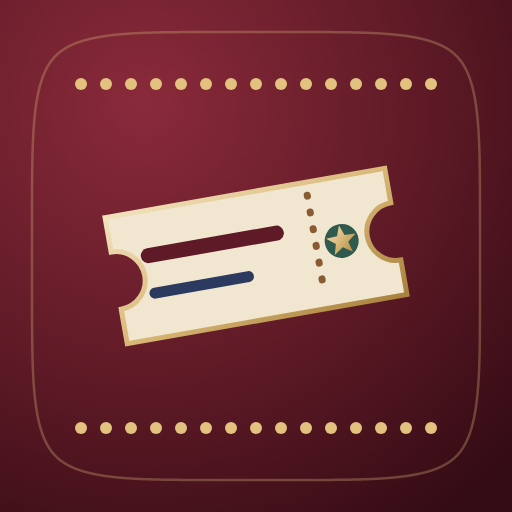
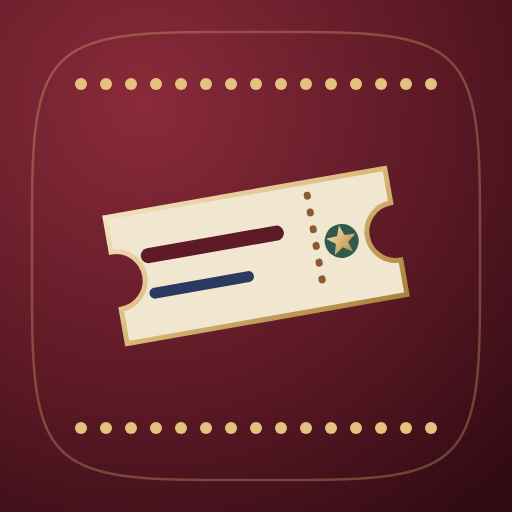
Iconos: el marco dorado sigue exactamente la forma que aplica iOS (superelipse n≈4,2)
Claude-Session: https://claude.ai/code/session_016k35bzsaVrxmGnMwsVbJwM

diff --git a/index.html b/index.html
@@ -11,7 +11,7 @@
 <meta name="mobile-web-app-capable" content="yes">
 <meta name="apple-mobile-web-app-title" content="CiccApps">
 <link rel="manifest" href="manifest.webmanifest">
-<link rel="apple-touch-icon" href="iconos/ciccapps-180.png?v=3">
+<link rel="apple-touch-icon" href="iconos/ciccapps-180.png?v=6">
 <link rel="icon" type="image/png" href="iconos/favicon-32.png">
 <link rel="stylesheet" href="compartido/ciccapps.css?v=19">
 <style>
@@ -100,10 +100,10 @@ header p { margin: 0; text-wrap: balance; font-family: var(--cc-serif); font-sty
   </header>
 
   <main class="apps">
-    <a class="app a-bit" href="bitacora/"><span class="ico"><img src="iconos/bitacora-192.png?v=5" alt=""></span><h2>Bitácora</h2><p>Tu plan de lectura, los libros que te faltan y tu ritmo.</p><small>¿Qué leo ahora?</small></a>
-    <a class="app a-pla" href="platea/"><span class="ico"><img src="iconos/platea-192.png?v=5" alt=""></span><h2>Platea</h2><p>Tu diario de cine y series, con watchlist y cartelera semanal.</p><small>¿Qué veo ahora?</small></a>
-    <a class="app a-vin" href="vinilo/"><span class="ico"><img src="iconos/vinilo-192.png?v=5" alt=""></span><h2>Vinilo</h2><p>Música para cada hora del día, con tus listas de Spotify.</p><small>¿Qué escucho ahora?</small></a>
-    <a class="app a-ic" href="interes-compuesto/"><span class="ico"><img src="iconos/interes-compuesto-192.png?v=5" alt=""></span><h2>Interés compuesto</h2><p>La simulación de ahorro para enseñar en tus reuniones.</p><small>¿Y si empiezas hoy?</small></a>
+    <a class="app a-bit" href="bitacora/"><span class="ico"><img src="iconos/bitacora-192.png?v=6" alt=""></span><h2>Bitácora</h2><p>Tu plan de lectura, los libros que te faltan y tu ritmo.</p><small>¿Qué leo ahora?</small></a>
+    <a class="app a-pla" href="platea/"><span class="ico"><img src="iconos/platea-192.png?v=6" alt=""></span><h2>Platea</h2><p>Tu diario de cine y series, con watchlist y cartelera semanal.</p><small>¿Qué veo ahora?</small></a>
+    <a class="app a-vin" href="vinilo/"><span class="ico"><img src="iconos/vinilo-192.png?v=6" alt=""></span><h2>Vinilo</h2><p>Música para cada hora del día, con tus listas de Spotify.</p><small>¿Qué escucho ahora?</small></a>
+    <a class="app a-ic" href="interes-compuesto/"><span class="ico"><img src="iconos/interes-compuesto-192.png?v=6" alt=""></span><h2>Interés compuesto</h2><p>La simulación de ahorro para enseñar en tus reuniones.</p><small>¿Y si empiezas hoy?</small></a>
   </main>
 
   <section class="instalar" id="instalar" aria-label="Cómo instalar">

diff --git a/platea/index.html b/platea/index.html
@@ -12,8 +12,8 @@
 <meta name="apple-mobile-web-app-title" content="Platea">
 <meta name="apple-mobile-web-app-status-bar-style" content="default">
 <link rel="manifest" href="manifest.webmanifest">
-<link rel="apple-touch-icon" href="../iconos/platea-180.png?v=5">
-<link rel="icon" type="image/png" href="../iconos/platea-192.png?v=5">
+<link rel="apple-touch-icon" href="../iconos/platea-180.png?v=6">
+<link rel="icon" type="image/png" href="../iconos/platea-192.png?v=6">
 <link rel="stylesheet" href="../compartido/ciccapps.css?v=19">
 <style>
 /* Layout: marquesina de cine arriba (estadísticas en letras de cartel), pestañas Diario / Por ver / Series, entradas como "tickets" troquelados; formulario en hoja inferior */
@@ -679,7 +679,7 @@ async function cargar(){
 }
 const TEMA_ACCESO={claro:{fondo:"#F3EFE4","fondo-alto":"#FFFFFF",hundido:"#EDE5D6",linea:"#E0D7C6","linea-fuerte":"#9C8F92",tinta:"#24161A","tinta-suave":"#6C6266",oro:"#6E1E2B",primario:"#6E1E2B","sobre-primario":"#FFF6EE","display-app":'"Limelight",Georgia,serif',"display-tracking":".02em"},
   oscuro:{fondo:"#150D10","fondo-alto":"#1F1518",hundido:"#2A1C20",linea:"#3A2A2F","linea-fuerte":"#6B5A5F",tinta:"#F1E9E4","tinta-suave":"#A7999E",oro:"#D9B878",primario:"#B8475A","sobre-primario":"#FFF6EE","display-app":'"Limelight",Georgia,serif',"display-tracking":".02em"}};
-CiccCuenta.iniciar({app:"Platea",icono:"../iconos/platea-192.png?v=5",lema:"¿Qué veo ahora?",tema:TEMA_ACCESO}).then(async r=>{
+CiccCuenta.iniciar({app:"Platea",icono:"../iconos/platea-192.png?v=6",lema:"¿Qué veo ahora?",tema:TEMA_ACCESO}).then(async r=>{
   sb=r.sb;USUARIO=r.usuario||null;CiccCuenta.firma("Platea",document.getElementById("pie"));await cargar();marcarMesNuevo();
   document.addEventListener("visibilitychange",()=>{if(document.visibilityState==="visible"&&!editId)cargar()});
 });

diff --git a/vinilo/index.html b/vinilo/index.html
@@ -6,8 +6,8 @@
 <meta name="apple-mobile-web-app-title" content="Vinilo">
 <meta name="apple-mobile-web-app-status-bar-style" content="black-translucent">
 <link rel="manifest" href="manifest.webmanifest">
-<link rel="apple-touch-icon" href="../iconos/vinilo-180.png?v=5">
-<link rel="icon" type="image/png" href="../iconos/vinilo-192.png?v=5">
+<link rel="apple-touch-icon" href="../iconos/vinilo-180.png?v=6">
+<link rel="icon" type="image/png" href="../iconos/vinilo-192.png?v=6">
 <link rel="stylesheet" href="../compartido/ciccapps.css?v=19">
 </head><body>
 
@@ -410,7 +410,7 @@ TAGS.forEach(([key, label]) => {
     claro:{fondo:"#F4EEE2","fondo-alto":"#FBF8F1",hundido:"#ECE4D3",linea:"#E1D8C6","linea-fuerte":"#A9A08C",tinta:"#172038","tinta-suave":"#5B6378",oro:"#8A6A2B",primario:"#172038","sobre-primario":"#F4EEE2","display-app":DISP,"color-scheme":"light"}};
   let sb=null,res=[],busy=false;const $=id=>document.getElementById(id);
   const esc=v=>String(v??"").replace(/[&<>"]/g,c=>({"&":"&amp;","<":"&lt;",">":"&gt;",'"':"&quot;"}[c]));
-  CiccCuenta.iniciar({app:"Vinilo",icono:"../iconos/vinilo-192.png?v=5",lema:"¿Qué escucho ahora?",tema:TEMA}).then(r=>{sb=r.sb;cargarFavs()});
+  CiccCuenta.iniciar({app:"Vinilo",icono:"../iconos/vinilo-192.png?v=6",lema:"¿Qué escucho ahora?",tema:TEMA}).then(r=>{sb=r.sb;cargarFavs()});
   function pinta(){
     $("iaGo").disabled=busy;$("iaGo").textContent=busy?"Pensando…":"Créame una playlist";
     $("iaList").innerHTML=res.map(c=>`<li><div><b>${esc(c.titulo)}</b><span>${esc(c.artista)}${c.anio?` · ${c.anio}`:""}${c.por_que?` — ${esc(c.por_que)}`:""}</span></div><a href="https://open.spotify.com/search/${encodeURIComponent(c.titulo+" "+c.artista)}" target="_blank" rel="noopener">Spotify ↗</a></li>`).join("");

diff --git a/bitacora/index.html b/bitacora/index.html
@@ -12,8 +12,8 @@
 <meta name="apple-mobile-web-app-title" content="Bitácora">
 <meta name="apple-mobile-web-app-status-bar-style" content="default">
 <link rel="manifest" href="manifest.webmanifest">
-<link rel="apple-touch-icon" href="../iconos/bitacora-180.png?v=5">
-<link rel="icon" type="image/png" href="../iconos/bitacora-192.png?v=5">
+<link rel="apple-touch-icon" href="../iconos/bitacora-180.png?v=6">
+<link rel="icon" type="image/png" href="../iconos/bitacora-192.png?v=6">
 <link rel="stylesheet" href="../compartido/ciccapps.css?v=19">
 <style>
 /* Layout: resumen + "ahora" arriba; tres vistas (Plan con estanterías por etapa, ¿Qué leo? por mood, Compras); ficha del libro como hoja inferior */
@@ -1011,7 +1011,7 @@ async function cargar(){
 }
 const TEMA_ACCESO={claro:{fondo:"#F3EFE4","fondo-alto":"#FBF8F0",hundido:"#EDE5D6",linea:"#E0D9C8","linea-fuerte":"#9A8B7C",tinta:"#4B2E19","tinta-suave":"#6B5E52",oro:"#9C7630",primario:"#4B2E19","sobre-primario":"#F3EFE4","display-app":'"IM Fell English",Georgia,serif'},
   oscuro:{fondo:"#17110C","fondo-alto":"#221912",hundido:"#2A2018",linea:"#3A2C20","linea-fuerte":"#6B5A48",tinta:"#EDE6D3","tinta-suave":"#ADA092",oro:"#D9B878",primario:"#D9B878","sobre-primario":"#17110C","display-app":'"IM Fell English",Georgia,serif'}};
-CiccCuenta.iniciar({tema:TEMA_ACCESO,app:"Bitácora",icono:"../iconos/bitacora-192.png?v=5",lema:"¿Qué leo ahora?"}).then(async r=>{
+CiccCuenta.iniciar({tema:TEMA_ACCESO,app:"Bitácora",icono:"../iconos/bitacora-192.png?v=6",lema:"¿Qué leo ahora?"}).then(async r=>{
   sb=r.sb;CiccCuenta.firma("Bitácora",document.getElementById("pie"));await cargar();
   document.addEventListener("visibilitychange",()=>{if(document.visibilityState==="visible"&&!sheetId)cargar()});
 });

diff --git a/interes-compuesto/index.html b/interes-compuesto/index.html
@@ -18,8 +18,8 @@
 <meta name="mobile-web-app-capable" content="yes">
 <meta name="apple-mobile-web-app-title" content="Interés">
 <link rel="manifest" href="manifest.webmanifest">
-<link rel="apple-touch-icon" href="../iconos/interes-compuesto-180.png?v=5">
-<link rel="icon" type="image/png" href="../iconos/interes-compuesto-192.png?v=5">
+<link rel="apple-touch-icon" href="../iconos/interes-compuesto-180.png?v=6">
+<link rel="icon" type="image/png" href="../iconos/interes-compuesto-192.png?v=6">
 </head><body>
 
 <style>

diff --git a/sw.js b/sw.js
@@ -1,5 +1,5 @@
 /* CiccApps — funciona sin conexión: guarda una copia de cada app y sus piezas al visitarlas. */
-const CACHE = 'ciccapps-v24';
+const CACHE = 'ciccapps-v25';
 self.addEventListener('install', e => self.skipWaiting());
 self.addEventListener('activate', e => e.waitUntil(
   caches.keys().then(ks => Promise.all(ks.filter(k => k !== CACHE).map(k => caches.delete(k)))).then(() => self.clients.claim())
